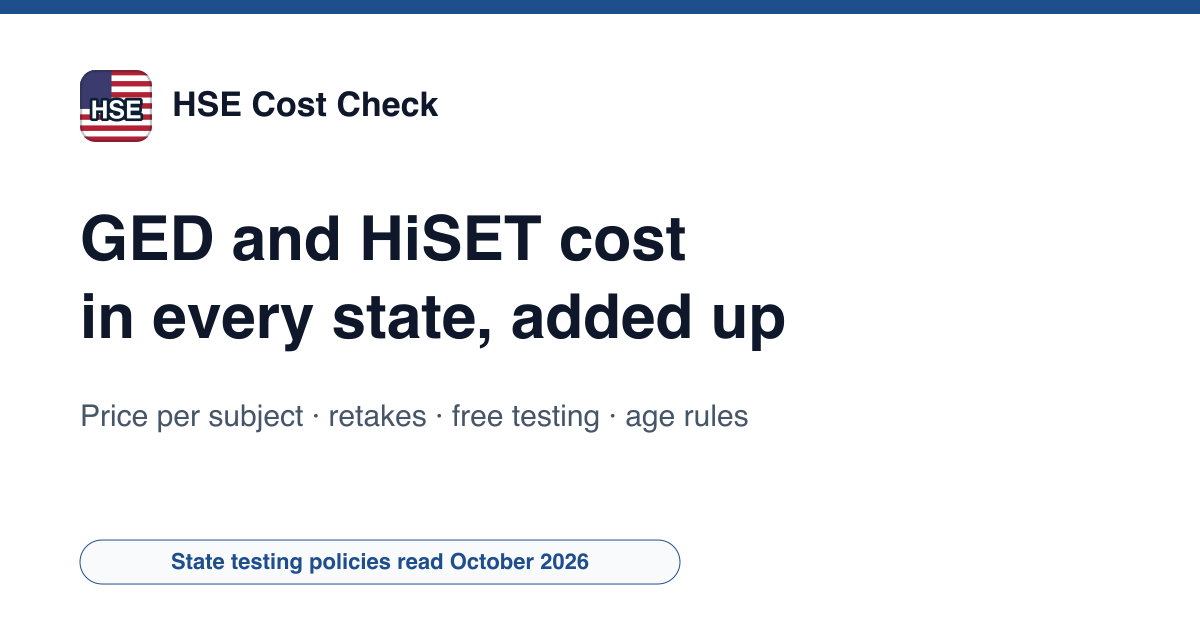
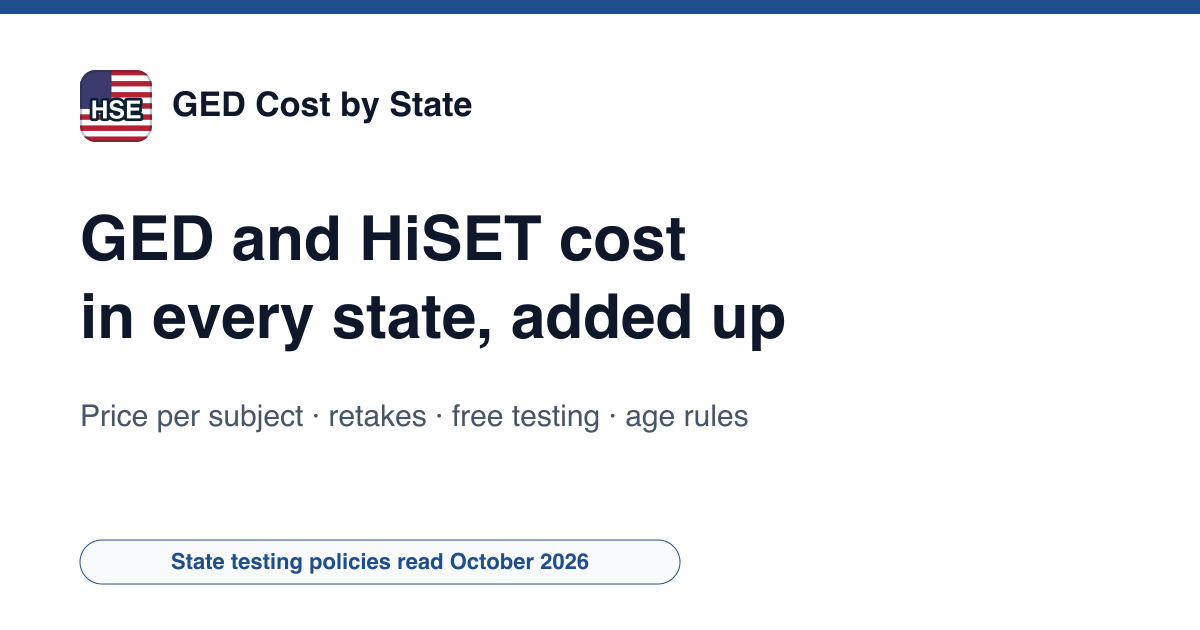
Renommage : us-ged-hiset devient gedcostbystate.com (marque : HSE Cost Check=GED Cost by State)
Domaine acheté le 2026-10-23 ; adresse, contact, robots, llms et images de partage mis à jour.

Changed region(s): [[0.1233, 0.1206, 0.4008, 0.2111]]

diff --git a/src/data/site-config.ts b/src/data/site-config.ts
@@ -1,6 +1,6 @@
 /** Configuration centrale du site (générée par new-site.py). */
-export const SITE_URL = "https://us-ged-hiset.example";
-export const SITE_NAMES: Record<string, string> = {"en": "HSE Cost Check", "es": "HSE Cost Check"};
+export const SITE_URL = "https://gedcostbystate.com";
+export const SITE_NAMES: Record<string, string> = {"en": "GED Cost by State", "es": "GED Cost by State"};
 export const LANG_TAGS: Record<string, string> = {"en": "en-US", "es": "es-US"};
 export const OG_LOCALES: Record<string, string> = {"en": "en_US", "es": "es_US"};
 export const LOCALE_TAG = 'en-US';
@@ -16,7 +16,7 @@ export const AUTHOR_DESC: Record<string, string> = {"en": "Radif Partners reads 
  *  themes reellement traites par le site, pas une liste de mots-cles : un sujet
  *  declare ici sans page qui le couvre est une declaration fausse. */
 export const KNOWS_ABOUT: Record<string, string[]> = {"en": ["GED test fees by state", "HiSET exam fees by state", "High school equivalency age waivers", "GED and HiSET passing scores", "State-funded free GED testing", "GED retake policies"], "es": ["Tarifas del examen GED por estado", "Tarifas del examen HiSET por estado", "Permisos de edad para la equivalencia de la secundaria", "Puntajes para aprobar el GED y el HiSET", "Examen GED gratis pagado por el estado", "Reglas para repetir el GED"]};
-export const CONTACT_EMAIL = "contact@us-ged-hiset.example";
+export const CONTACT_EMAIL = "contact@gedcostbystate.com";
 export const THEME_COLOR = '#1F4E8C';
 export const LOGO_SYMBOL = 'HSE';
 export const BING_VERIFY_CODE = '';
